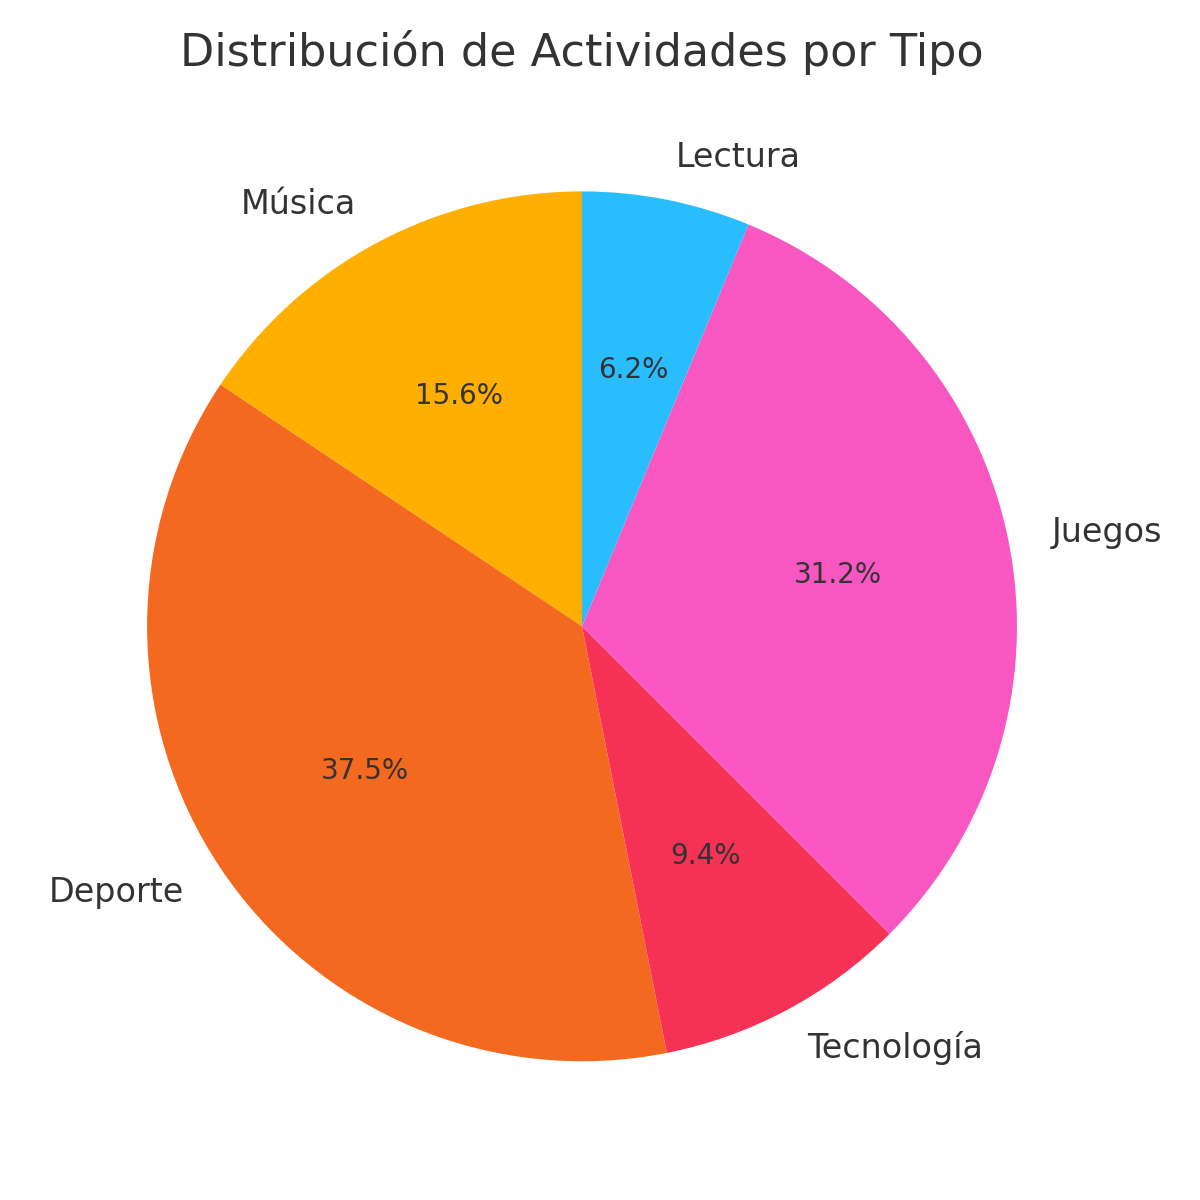
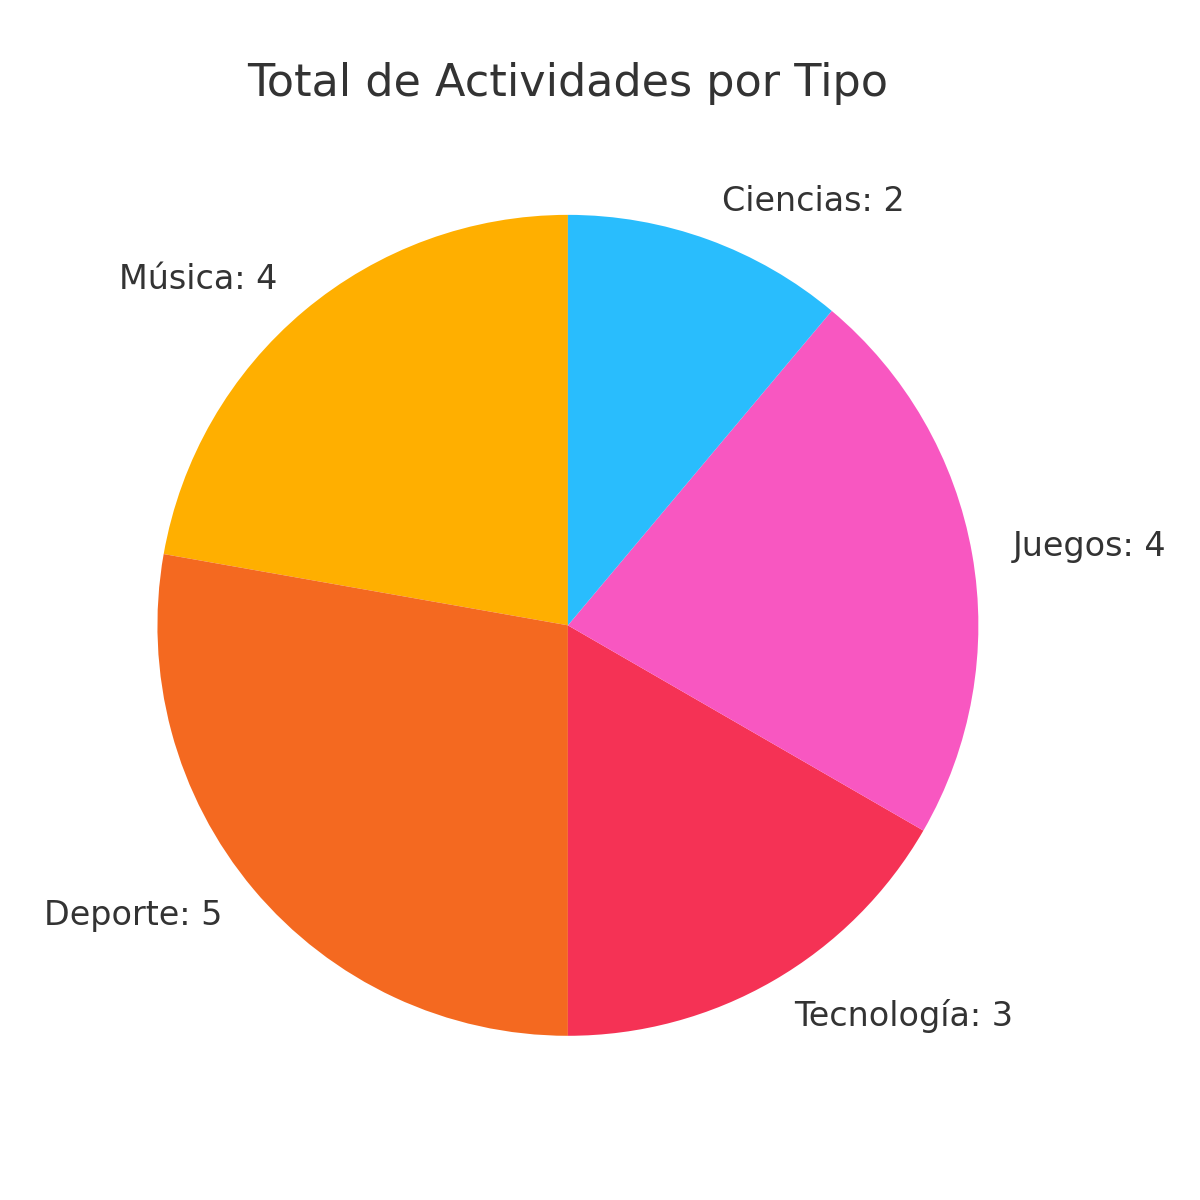
fixed grafico torta
el grafico era por total no por distribución

diff --git a/tarea1/estadisticas.html b/tarea1/estadisticas.html
@@ -32,9 +32,9 @@
     </section>
 
     <section>
-      <h2>2. Distribución de actividades por tipo</h2>
+      <h2>2. Total de actividades por tipo</h2>
       <div style="text-align: center;">
-        <img src="img/estadisticas/torta_tipos.png" alt="Gráfico de torta que muestra la distribución de actividades por tipo" width="600">
+        <img src="img/estadisticas/torta_tipos.png" alt="Gráfico de torta que muestra el total de actividades por tipo" width="600">
       </div>
     </section>
 
